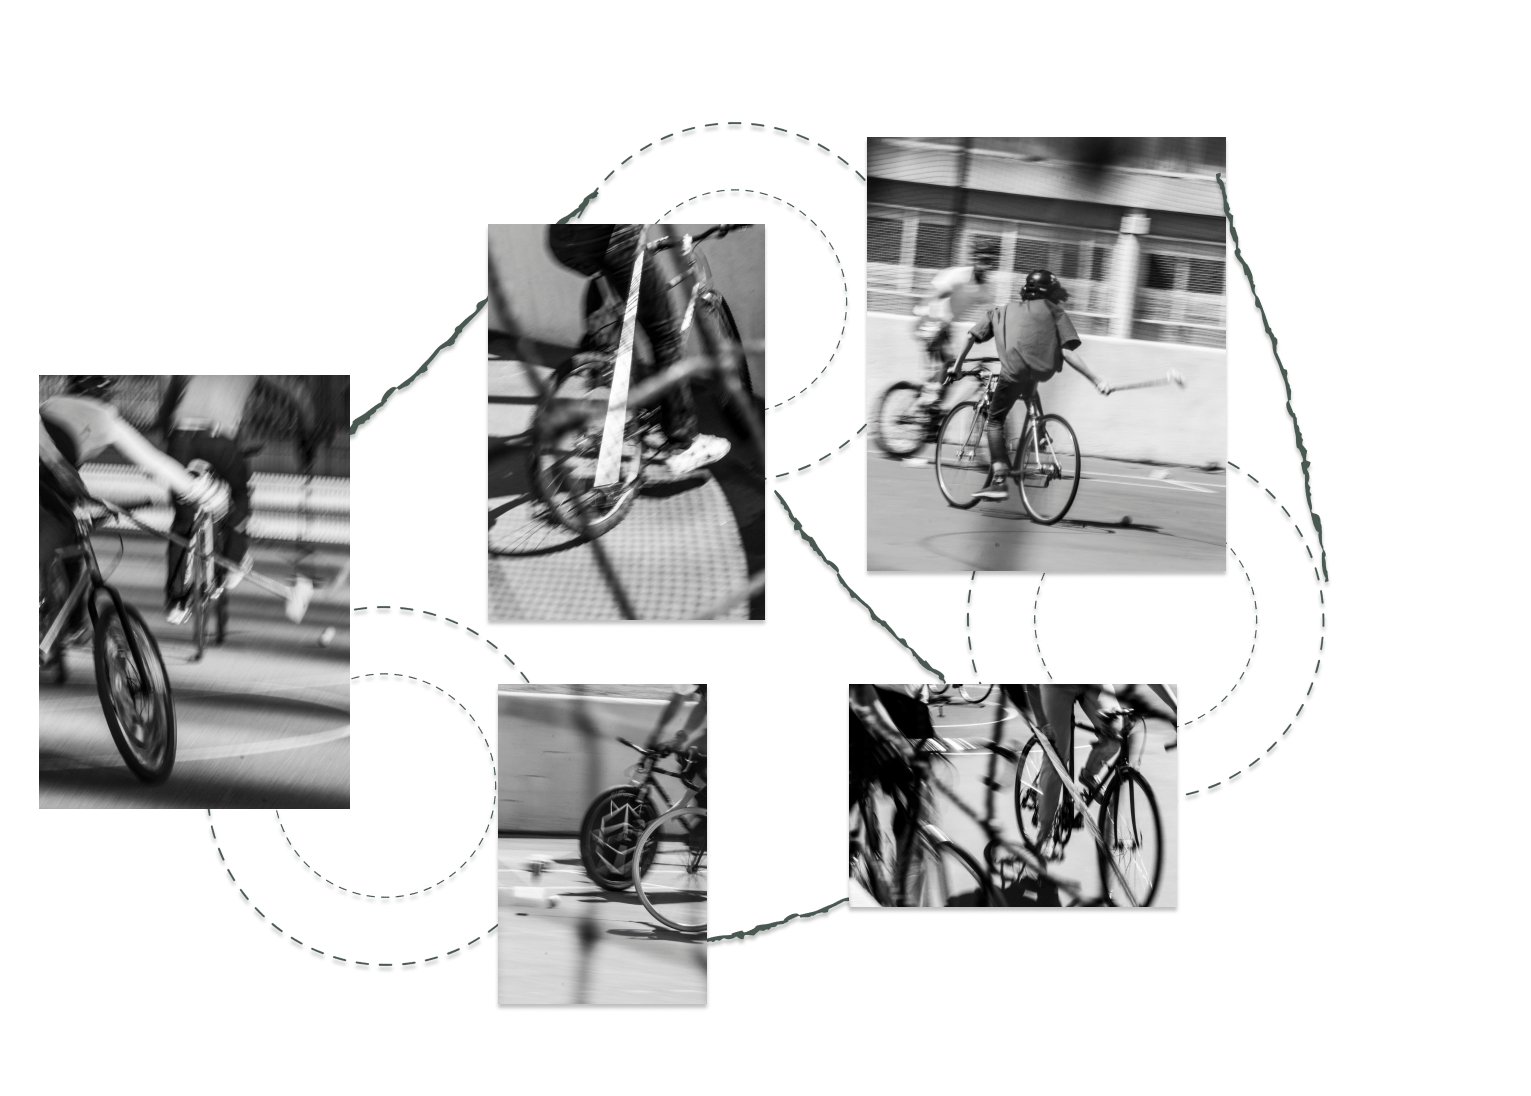
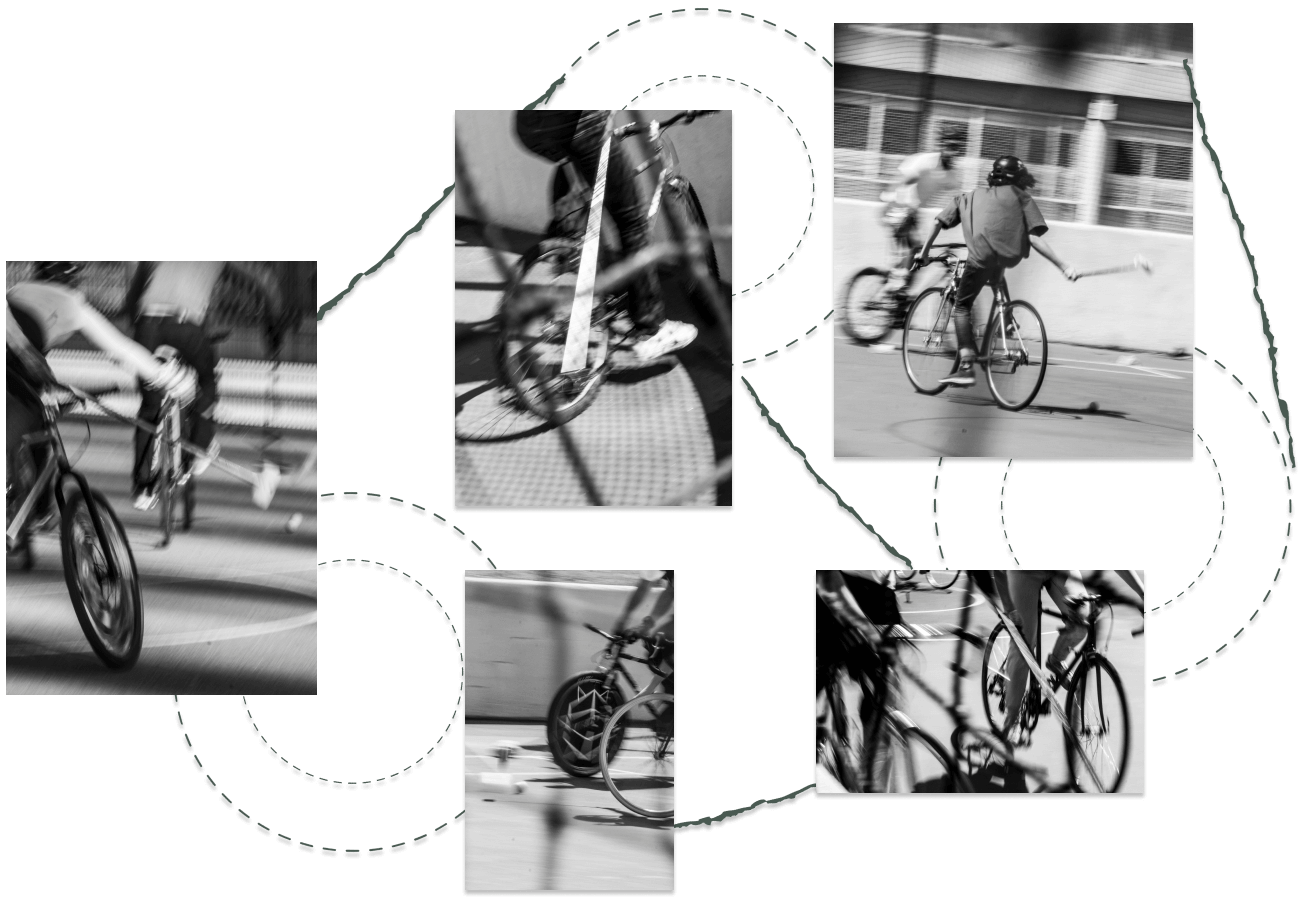
content, images, responsive

diff --git a/src/chapters/ChapterThree.jsx b/src/chapters/ChapterThree.jsx
@@ -17,7 +17,9 @@ import ChapterThreeImg6 from '../assets/chapter-3-img-6.png';
 import ChapterThreeImg7 from '../assets/chapter-3-img-7.png';
 import ChapterThreeBg1 from '../assets/chapter-3-bg-1.png';
 import ChapterThreeBg2 from '../assets/chapter-3-bg-2.png';
+import ChapterThreeBg3 from '../assets/chapter-3-bg-3.png';
 import ChapterThreeCircle1 from '../assets/chapter-3-circle-1.png';
+import ChapterThreeCircle2 from '../assets/chapter-3-circle-2.png';
 
 const ChapterThree = () => {
   return (
@@ -46,7 +48,12 @@ const ChapterThree = () => {
               Pour Morgan Hidalgo, le sponsoring des joueurs par ces entreprises spécialisées est différent des autres sports : “Nous n’avons pas de contrats formels. Ce qu’ils nous demandent, c’est de la visibilité. Le Bike Polo est un sport trop petit pour bénéficier du sponsoring de marques plus connues. Pour elles, ce n’est pas un marché suffisamment intéressant. Mais on essaie quand même !” Preuve en est, certains joueurs ont collaboré ponctuellement avec des marques de luxe comme Louis Vuitton ou Louboutin ; loin des débuts sur les parkings et les friches. 
             </p>
           </div>
-          <div className="col-12 col-md-6 d-flex flex-column justify-content-center">
+          <div className="col-12 col-md-6 d-flex flex-column justify-content-center position-relative">
+            <Parallax className="position-absolute parallax-item--first" y={["100px", "-100px"]} tagOuter="figure">
+              <LazyLoad once offset={500}>
+                <img src={ChapterThreeCircle2} alt="" className="img-fluid" />
+              </LazyLoad>
+            </Parallax>
             <Parallax y={["400px", "-100px"]} tagOuter="figure">
               <LazyLoad once offset={500}>
                 <img src={ChapterThreeImg1} alt="Chapitre 3" className="img-fluid" />
@@ -55,7 +62,7 @@ const ChapterThree = () => {
             <div className="row">
               <div className="col-12 col-sm-6">
                 <Parallax y={["200px", "-200px"]} tagOuter="figure">
-                  <figcaption className="pl-lg-5">
+                  <figcaption className="pl-lg-5 mt-5">
                     Des nombreuses structures et entreprises se sont créées dans le sillage du Bike Polo. En haut, un atelier de réparation qui auvrir avec Paul Vergnaud et ses amis rencontrés via le sport. En bas, un balle de HardcourtBikePolo de la marque montellieraine RogerBikePolo.
                   </figcaption>
                 </Parallax>
@@ -68,7 +75,7 @@ const ChapterThree = () => {
                 </Parallax>
               </div>
             </div>
-            <Iframe src="https://www.dailymotion.com/embed/video/x81h6ev" title="Vidéo chapitre 3" containerClass="mt-5"/>
+            <Iframe src="https://www.dailymotion.com/embed/video/x81h6ev?queue-enable=false" title="Vidéo chapitre 3" containerClass="mt-5"/>
           </div>
         </div>
       </div>
@@ -96,10 +103,17 @@ const ChapterThree = () => {
         </div>
       </div>
       <Spacer size="small"/>
+      <div className="position-relative">
+        <div className="page-decoration page-decoration--is-left">
+          <LazyLoad once offset={500}>
+            <img src={ChapterThreeBg3} alt="chapter three background" className="w-100"/>
+          </LazyLoad>
+        </div>
+      </div>
       <div className="container">
         <div className="row">
           <div className="col-12 col-md-6 pr-lg-5">
-            <p>
+            <p className="mt-5 mr-5">
               <strong>
                 En France, seuls quatre courts sont exclusivement dédiés à la pratique de cette
                 discipline. Six courts intérieurs permettent également aux équipes qui le
@@ -125,11 +139,11 @@ const ChapterThree = () => {
         <div className="row">
           <div className="col-12">
             <h3>Les terrains des clubs français</h3>
-            {/* <FloatingImages/> */}
+            <FloatingImages/>
           </div>
         </div>
       </div>
-      <Spacer size="small"/>
+      <Spacer size="large"/>
       <div className="container">
         <div className="row">
           <div className="col-12 col-md-6 pr-lg-5">
@@ -163,6 +177,7 @@ const ChapterThree = () => {
           <div className="col-12">
             <h3>Le profil des joueurs de Hardcourt Bike Polo en France</h3>
             <Stats/>
+            <p className="h3 ml-sm-5" style={{marginTop: "-40px"}}>Coût moyen de cotisation : 27€</p>
           </div>
         </div>
       </div>

diff --git a/src/chapters/ChapterTwo.jsx b/src/chapters/ChapterTwo.jsx
@@ -24,6 +24,7 @@ import ChapterTwoBg3 from '../assets/chapter-2-bg-3.png';
 import ChapterTwoBg4 from '../assets/chapter-2-bg-4.png';
 import ChapterTwoBg5 from '../assets/chapter-2-bg-5.png';
 import ChapterTwoBg7 from '../assets/chapter-2-bg-7.png';
+import ChapterTwoBg9 from '../assets/chapter-2-bg-9.png';
 import introCircle1 from '../assets/intro-circle-1.png';
 import ChapterThreeCirlce1 from '../assets/chapter-3-circle-1.png';
 
@@ -103,7 +104,7 @@ const ChapterTwo = () => {
               Du côté de Lyon Bike Polo, les entraînements sont une succession de matchs, pour le plus grand plaisir des joueurs expérimentés. “Le problème, c'est que ça ne nous permet pas d’inclure de nouveaux venus”, regrette Quentin Bouchard, membre lyonnais. Un aspect dont les clubs ont bien conscience : “ On essaie d’éviter que les forts soient toujours avec les forts et les faibles avec les faibles.” explique Paul Vergnaud. Avant le match, les clubs font souvent un “shuffle” : les maillets des joueurs sont lancés au hasard sur le terrain pour former les équipes, ce qui permet parfois de mélanger les niveaux. À Strasbourg, Elodie Martini a choisi d’organiser des exercices pratiques en début de session pour intégrer convenablement les débutants.
             </p>
             <Spacer size="medium"/>
-            <Iframe src="https://www.dailymotion.com/embed/video/k5HNpctdCkMyUCwTXel" title="Vidéo chapitre 2" containerClass="mt-5"/>
+            <Iframe src="https://www.dailymotion.com/embed/video/k5HNpctdCkMyUCwTXel?queue-enable=false" title="Vidéo chapitre 2" containerClass="mt-5"/>
             <Spacer size="medium"/>
             <figure className="team-logos">
               <div className="d-flex flex-row align-items-center justify-content-center">
@@ -165,6 +166,20 @@ const ChapterTwo = () => {
                   <img src={ChapterTwoImg11} alt="Chapitre 2" className="img-fluid" />
                 </LazyLoad>
                 <figcaption>Jean-François Jolfre est membre du bureau de Paris Bike Polo. C’est un ancien membre du comité Bike Polo France. Ici, il joue sur un terrain à la frontière entre Pantin et Paris.</figcaption>
+              </Parallax>
+            </div>
+          </div>
+        </div>
+      </div>
+      <Spacer size="medium"/>
+      <div className="cover-section cover-section--chapter-2-third">
+        <div className="container">
+          <div className="row">
+            <div className="col-12">
+              <Parallax y={["200px", "-200px"]} tagOuter="figure">
+                <LazyLoad once offset={500}>
+                  <img src={ChapterTwoBg9} alt="Chapitre 2" className="img-fluid" />
+                </LazyLoad>
               </Parallax>
             </div>
           </div>

diff --git a/src/styles/App.scss b/src/styles/App.scss
@@ -428,8 +428,18 @@
     }
     &.cover-section--chapter-2-second {
       height: 1322px;
-      background-image: url(../assets/chapter-2-bg-6.png);
+      background: url(../assets/chapter-2-bg-6.png),
+        linear-gradient(
+          180deg,
+          rgba(255, 255, 255, 0) 0%,
+          rgba(0, 0, 0, 0) 30%,
+          $intro-bg 100%
+        );
       color: $text-color;
+    }
+    &.cover-section--chapter-2-third {
+      height: 820px;
+      background-image: url(../assets/chapter-2-bg-8.png);
     }
   }
   .decorated-content {
@@ -456,6 +466,16 @@
   }
   .decorated-content {
     color: $text-color;
+  }
+  .parallax-item--first {
+    top: 0;
+    z-index: 1;
+    left: 0;
+  }
+  .page-decoration {
+    &.page-decoration--is-left {
+      max-width: 100%;
+    }
   }
 }
 
@@ -803,16 +823,28 @@
   display: flex;
   align-items: center;
   justify-content: center;
-  padding: 20px 0;
-  .floating-images__image {
+  .floating-images__column {
+    position: relative;
     margin: 0 12px;
-    will-change: transform;
-
     &:first-child {
       margin-left: 0;
     }
     &:last-child {
       margin-right: 0;
+    }
+    .floating-images__image {
+      will-change: transform;
+    }
+    .floating-images__title {
+      position: absolute;
+      left: 0;
+      right: 0;
+      top: 0;
+      color: $green-light;
+      font-size: 28px;
+      line-height: 40px;
+      font-weight: bold;
+      text-shadow: 4px 4px 0px rgba(0, 0, 0, 0.25);
     }
   }
 }
@@ -916,10 +948,10 @@
       transform-origin: center;
       cursor: pointer;
       &:hover {
-        transform: scale(1.4);
+        transform: scale(1.3);
       }
       &.stats__nav-item--is-active {
-        transform: scale(1.4);
+        transform: scale(1.3);
       }
     }
   }
@@ -1195,6 +1227,13 @@
 }
 
 @include for-md-up {
+  .chapter-three {
+    .page-decoration {
+      &.page-decoration--is-left {
+        max-width: 50%;
+      }
+    }
+  }
   .timeline {
     .timeline__nav {
       overflow: visible;
@@ -1285,8 +1324,22 @@
         transform-origin: left;
       }
     }
-    .stats__content-container {
-      .stats__content {
+  }
+  .floating-images {
+    .floating-images__column {
+      &:nth-child(even) {
+        .floating-images__title {
+          bottom: 0;
+        }
+      }
+      &:nth-child(odd) {
+        .floating-images__title {
+          top: 0;
+        }
+      }
+      .floating-images__title {
+        font-size: 48px;
+        top: auto;
       }
     }
   }

diff --git a/src/chapters/ChapterOne.jsx b/src/chapters/ChapterOne.jsx
@@ -51,7 +51,7 @@ const ChapterOne = () => {
             </p>
           </div>
           <div className="col-12 col-md-6 justify-content-center">
-            <Iframe src="https://www.dailymotion.com/embed/video/x81gh3o" title="Vidéo chapitre 1" containerClass="mt-5"/>
+            <Iframe src="https://www.dailymotion.com/embed/video/x81gh3o?queue-enable=false" title="Vidéo chapitre 1" containerClass="mt-5"/>
           </div>
         </div>
       </div>
@@ -141,7 +141,7 @@ const ChapterOne = () => {
         <div className="row">
           <div className="col-12 col-md-6">
             <Parallax y={["200px", "-200px"]} tagOuter="figure">
-              <blockquote>
+              <blockquote className="text-center">
                 « On fait tout nous-même. »
                 <br/>
                 <cite title="Gabriel, MarseilleBikePolo">- Gabriel, MarseilleBikePolo</cite>
@@ -173,7 +173,7 @@ const ChapterOne = () => {
               Autre membre du club phocéen, Enrico est tantôt joueur, tantôt mécano. Il se charge parfois de la réparation des engins de ses partenaires. “Si une pièce se casse, on ne se rend pas de suite dans un magasin, explique le jeune marseillais, on cherche d’abord à réparer par nous-même”. Il a récemment lancé un atelier d’auto-réparation de vélo engagé Plan B, partenaire de Marseille Bike Polo.   
             </p>
             <Spacer size="medium" />
-            <Iframe src="https://www.dailymotion.com/embed/video/x81h1p6" title="Vidéo chapitre 1" containerClass="mt-5"/>
+            <Iframe src="https://www.dailymotion.com/embed/video/x81h1p6?queue-enable=false" title="Vidéo chapitre 1" containerClass="mt-5"/>
           </div>
           <div className="col-12 col-md-6 pl-lg-5">
             <Parallax y={["200px", "-200px"]} tagOuter="figure">
@@ -278,7 +278,7 @@ const ChapterOne = () => {
         </div>
       </div>
       <Spacer size="large"/>
-      <div className="cover-section" style={{height: '1098px', backgroundImage: `url(${chapterOneBg8})`}}>
+      <div className="cover-section" style={{height: '1098px', background: `url(${chapterOneBg8}), linear-gradient(180deg, rgba(255,255,255,0) 0%, rgba(0,0,0,0) 30%, rgba(243,235,231,1) 100%)`}}>
         <Parallax y={["200px", "-200px"]} tagOuter="figure">
           <LazyLoad once offset={500}>
             <img src={chapterOneBg9} alt="Chapitre 1" className="img-fluid" />

diff --git a/src/components/FloatingImages.jsx b/src/components/FloatingImages.jsx
@@ -6,10 +6,22 @@ import floatingImg3 from '../assets/floating-img-3.png';
 import floatingImg4 from '../assets/floating-img-4.png';
 
 const images = [
-  floatingImg1,
-  floatingImg2,
-  floatingImg3,
-  floatingImg4,
+  {
+    title: "4 terrains dédiés au Bike Polo",
+    src: floatingImg1,
+  },
+  {
+    title: "6 terrains en intérieur pour jouer l’hiver",
+    src: floatingImg2,
+  },
+  {
+    title: "10 clubs partagent leur terrain",
+    src: floatingImg3,
+  },
+  {
+    title: "4 squattent sans autorisation",
+    src: floatingImg4,
+  },
 ];
 
 const FloatingImages = () => {
@@ -25,7 +37,14 @@ const FloatingImages = () => {
   return (
     <div className="floating-images">
       {images.map((image, index) => {
-        return <animated.div className="floating-images__image" style={{ transform: animationProps.radians.to(interp(index)) }} key={index}><img src={image} alt="floating example" className="img-fluid" /></animated.div>
+        return (
+          <div className="floating-images__column">
+            <animated.div className="floating-images__image" style={{ transform: animationProps.radians.to(interp(index)) }} key={index}>
+              <img src={image.src} alt="floating example" className="img-fluid" />
+            </animated.div>
+            <p className="floating-images__title">{image.title}</p>
+          </div>
+        );
       })}
     </div>
   );

diff --git a/src/styles/index.scss b/src/styles/index.scss
@@ -52,19 +52,24 @@ h2,
 h3,
 h4,
 h5,
-h6 {
+h6,
+.h1,
+.h2,
+.h3 {
   font-family: $heading-font;
   font-weight: bold;
   word-break: break-word;
 }
 
-h2 {
+h2,
+.h2 {
   font-size: 62px;
   color: $green;
 }
 
-h3 {
-  font-size: 34px;
+h3,
+.h3 {
+  font-size: 36px;
   color: $green-dark;
 }
 
@@ -110,7 +115,10 @@ figcaption {
   h3,
   h4,
   h5,
-  h6 {
+  h6,
+  .h1,
+  .h2,
+  .h3 {
     word-break: normal;
   }
 }
@@ -120,9 +128,9 @@ figcaption {
 
 @include for-lg-up {
   blockquote {
-    font-size: 64px;
+    font-size: 48px;
     cite {
-      font-size: 44px;
+      font-size: 36px;
     }
   }
 }

diff --git a/src/components/IntroVideo.jsx b/src/components/IntroVideo.jsx
@@ -4,7 +4,7 @@ import Iframe from './Iframe';
 const IntroVideo = () => {
   return (
     <div className="intro-video">
-      <Iframe src="https://www.dailymotion.com/embed/video/k4rlnTFHMYvWQVwUh7Z" title="Vidéo intro"/>
+      <Iframe src="https://www.dailymotion.com/embed/video/k4rlnTFHMYvWQVwUh7Z?queue-enable=false" title="Vidéo intro"/>
 
     </div>
   );
